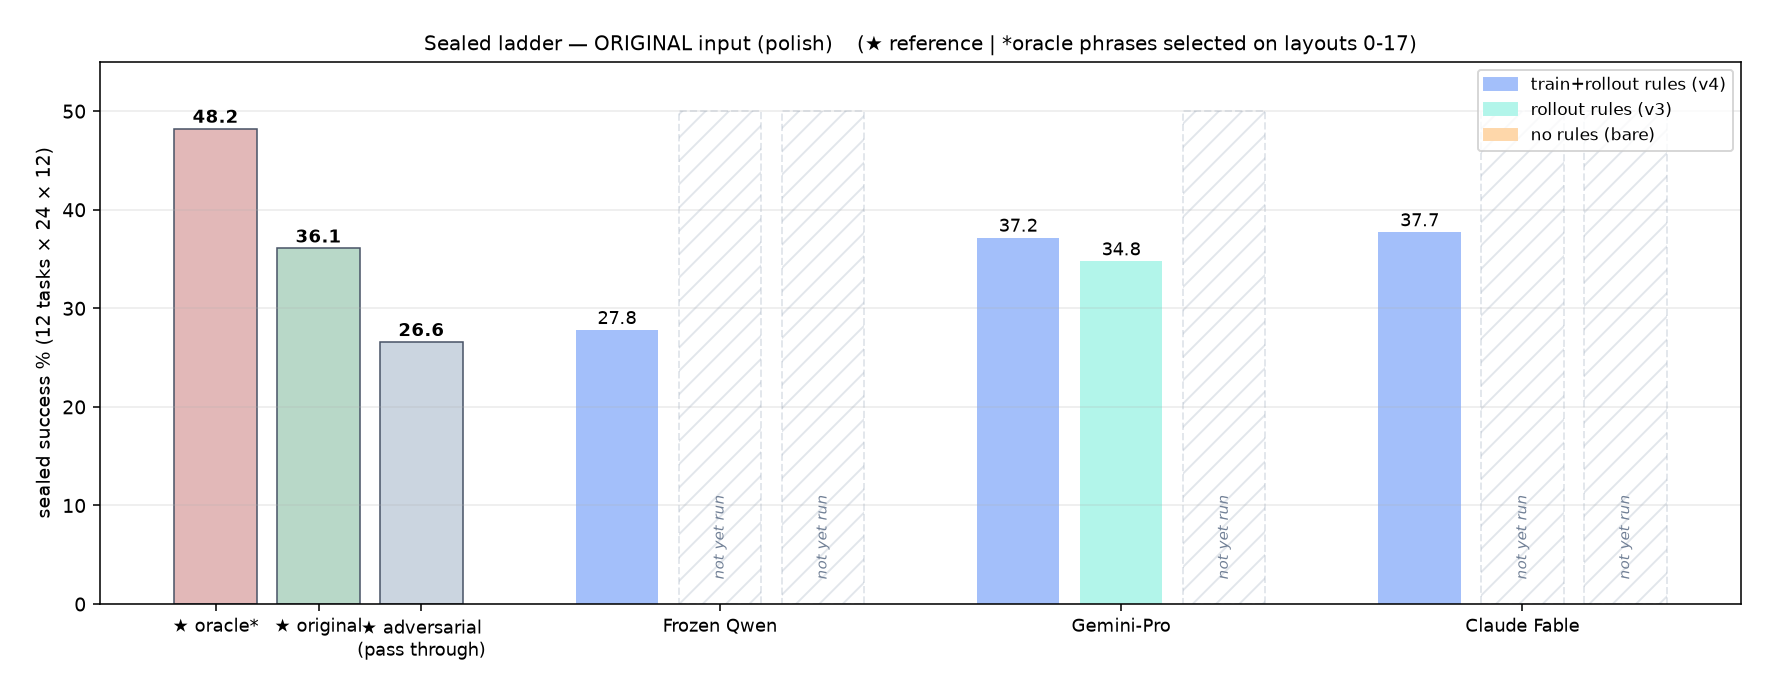
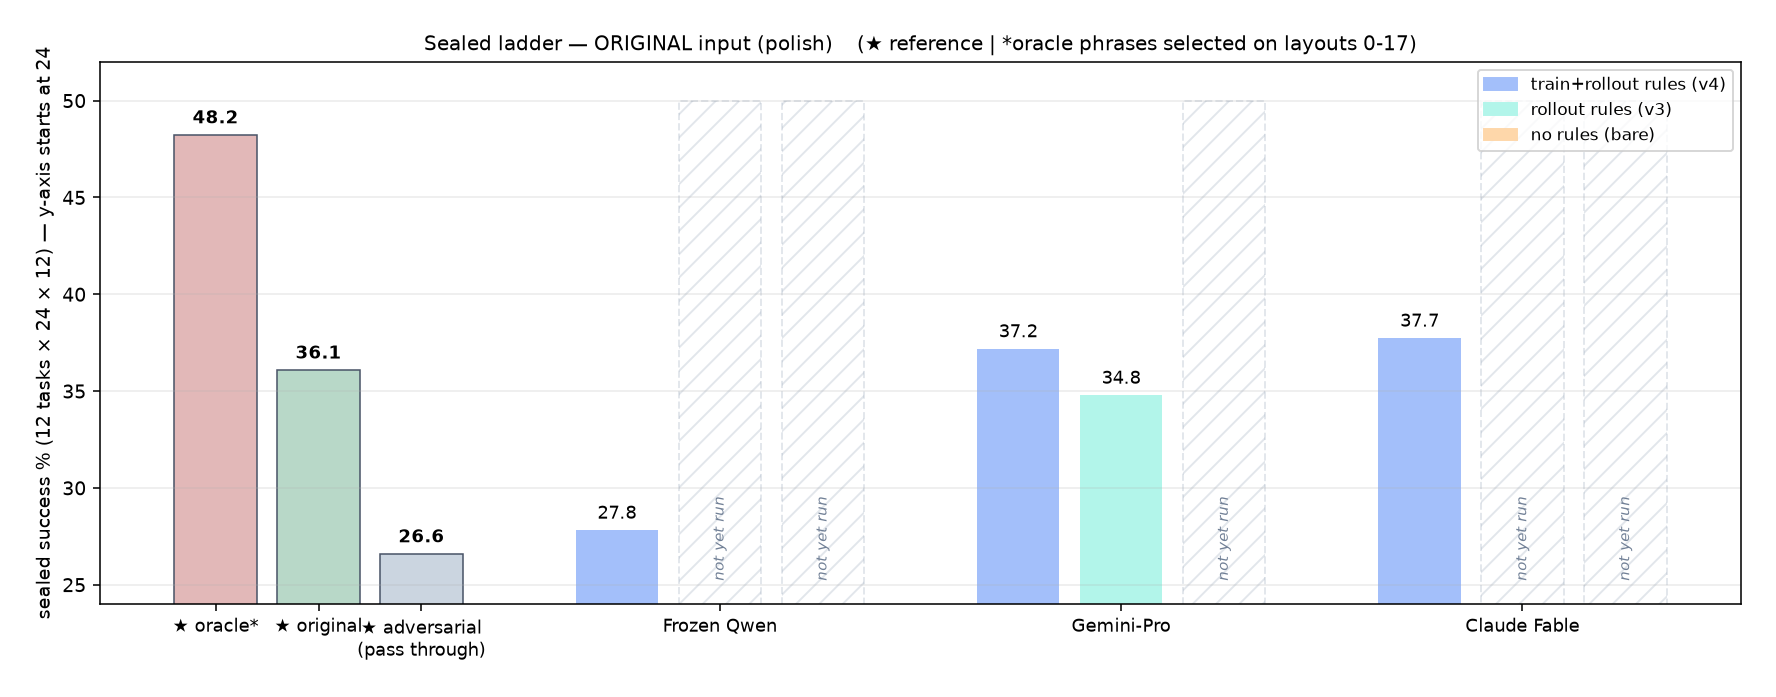
condition ladders: truncated y-axis (24-52) for readability

diff --git a/scripts/make_condition_ladders.py b/scripts/make_condition_ladders.py
@@ -49,7 +49,7 @@ for cond, models in DATA.items():
                 ax.bar(x, 50, 0.8, color="none", edgecolor="#a0aec0", ls="--", lw=1.0,
                        hatch="//", alpha=0.30)
                 note = PENDING_NOTE.get((cond, model, i), "not yet run")
-                ax.text(x, 2.5, note, ha="center", va="bottom", fontsize=7.5,
+                ax.text(x, 25.2, note, ha="center", va="bottom", fontsize=7.5,
                         color="#718096", style="italic", rotation=90)
             else:
                 ax.bar(x, val, 0.8, color=col, edgecolor="none",
@@ -66,8 +66,8 @@ for cond, models in DATA.items():
     ax.legend(handles, [r for r, _ in ROLE], fontsize=8.5, loc="upper right")
     ax.set_xticks(ticks)
     ax.set_xticklabels(ticklabels, fontsize=9.5)
-    ax.set_ylabel("sealed success % (12 tasks × 24 × 12)")
-    ax.set_ylim(0, 55)
+    ax.set_ylabel("sealed success % (12 tasks × 24 × 12) — y-axis starts at 24")
+    ax.set_ylim(24, 52)
     ax.grid(axis="y", alpha=0.25)
     title_cond = ("ADVERSARIAL input (repair)" if cond == "adversarial"
                   else "ORIGINAL input (polish)")
